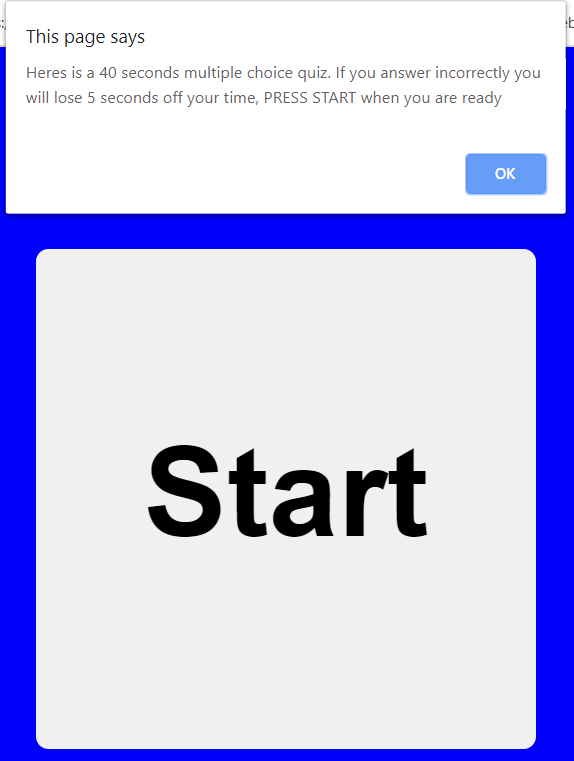
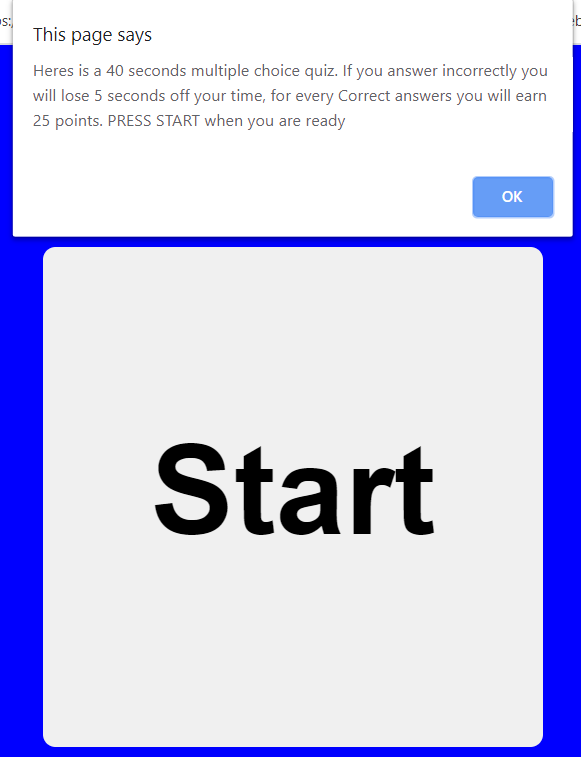
updating screenshot 1

diff --git a/quiz-script.js b/quiz-script.js
@@ -17,7 +17,7 @@ console.log(startButton.classList);
 startButton.addEventListener('click', startGame, countdown,)
 
 
-alert("Heres is a 40 seconds multiple choice quiz. If you answer incorrectly you will lose 5 seconds off your time, PRESS START when you are ready" )
+alert("Heres is a 40 seconds multiple choice quiz. If you answer incorrectly you will lose 5 seconds off your time, for every Correct answers you will earn 25 points. PRESS START when you are ready" )
 
 function startGame() {
     console.log('Started')
